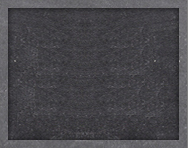
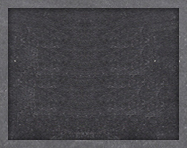
modified colors to new format

diff --git a/app/assets/stylesheets/students.css.scss b/app/assets/stylesheets/students.css.scss
@@ -3,7 +3,10 @@
 // You can use Sass (SCSS) here: http://sass-lang.com/
 
 @import 'mixins_n_colors';
-$blackboard_w: 188px;
+$blackboard_w: 187px;
+$blackboard_h: 148px;
+$border_w: 7px;
+// $border_w: 0px;
 
 .list-box-table {
   margin-top: 34px;
@@ -18,27 +21,44 @@ $blackboard_w: 188px;
   & td>div {
     position: relative;
     display: inline-block;
-    background: transparent url('blackboard_bg.jpg') no-repeat left top;
+    background: transparent url('blackboard_bg.jpg') (-$border_w) (-$border_w) no-repeat;
+    border-width: $border_w; 
+    border-style: solid;
 
     // image size: 188 * 140 px
-    width: $blackboard_w;
-    height: 180px;
+    width: $blackboard_w - 2 * $border_w;
+    // height: 180px;
+    height: $blackboard_h - 2 * $border_w;
   }
+}
+
+.transp-border {
+  border-color: transparent;
+}
+
+.red-bord {
+  border-color: $red;
+}
+.green-bord {
+  border-color: $green;
+}
+.yellow-bord {
+  border-color: $yellow;
 }
 
 div.problem_list_box {
   p {
     width: $blackboard_w - 30px;
-    padding: 0 15px;
-    margin-top: 40px;
+    padding: 0 (15px - $border_w);
+    margin-top: (40px - $border_w);
     text-align: center;
     color: white;
   }
 
   a {
     position: absolute;
-    top: 90px;
-    left: 30px;
+    top: 90px - $border_w;
+    left: 30px - $border_w;
     display: block;
     padding: 5px;
 

diff --git a/app/assets/stylesheets/mixins_n_colors.css.scss b/app/assets/stylesheets/mixins_n_colors.css.scss
@@ -1,9 +1,14 @@
-$red:     #de0000;
+$red:    #C40233;
+$green:  #009F6B;
+$blue:   #0087BD;
+$yellow: #FFD300;
 
-$button_blue: #3aa0af;
-$blue:    #049cdb;
-$green:   #46a546;
-$yellow:  #ffc40d;
+$sgGreen: $green;
+$sg_green: $green;
+$sgBlue:  $blue;
+$sg_blue:  $blue;
+
+$button_blue: $blue;
 $orange:  #f89406;
 $pink:    #c3325f;
 $purple:  #7a43b6;
@@ -11,10 +16,10 @@ $navlink: #c1c1d8;
 $navG1:   #262632; 
 $navG2:   #74748e;
 $navGH:   #58588e;
-$sgGreen: #6bad4b;
-$sg_green: #aec833;
-$sgBlue:  #36a0b0;
-$sg_blue:  #36a0b0;
+// $sgGreen: #6bad4b;
+// $sg_green: #aec833;
+// $sgBlue:  #36a0b0;
+// $sg_blue:  #36a0b0;
 $sg_grey: #7f7f7f;
 $light_green: #9fe37f;
 $invalid_red: #f2dede;
@@ -26,7 +31,7 @@ $graphite: #503214;
   border: 1px solid $sg_grey;
 }
 @mixin dotted-border() {
-  border: 2px dashed $sg_blue;
+  border: 2px dashed $blue;
 }
 @mixin rounded-corners($radius) {
 	-moz-border-radius: $radius;
